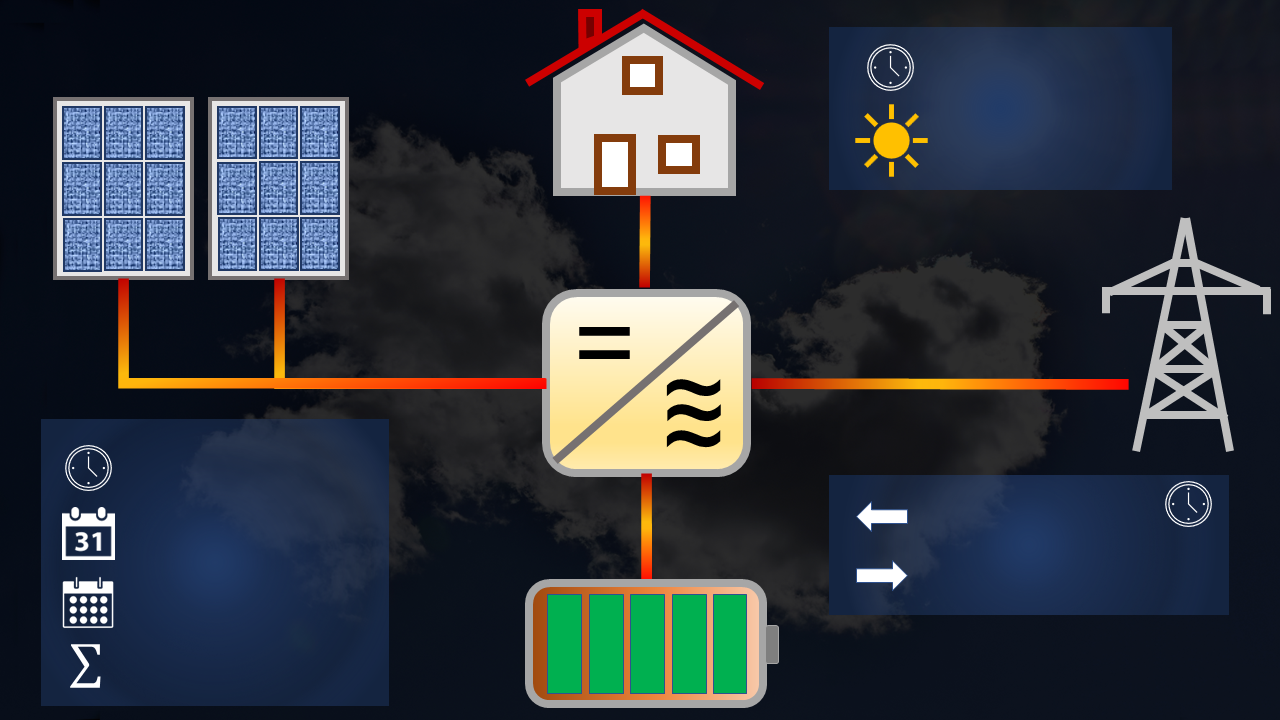
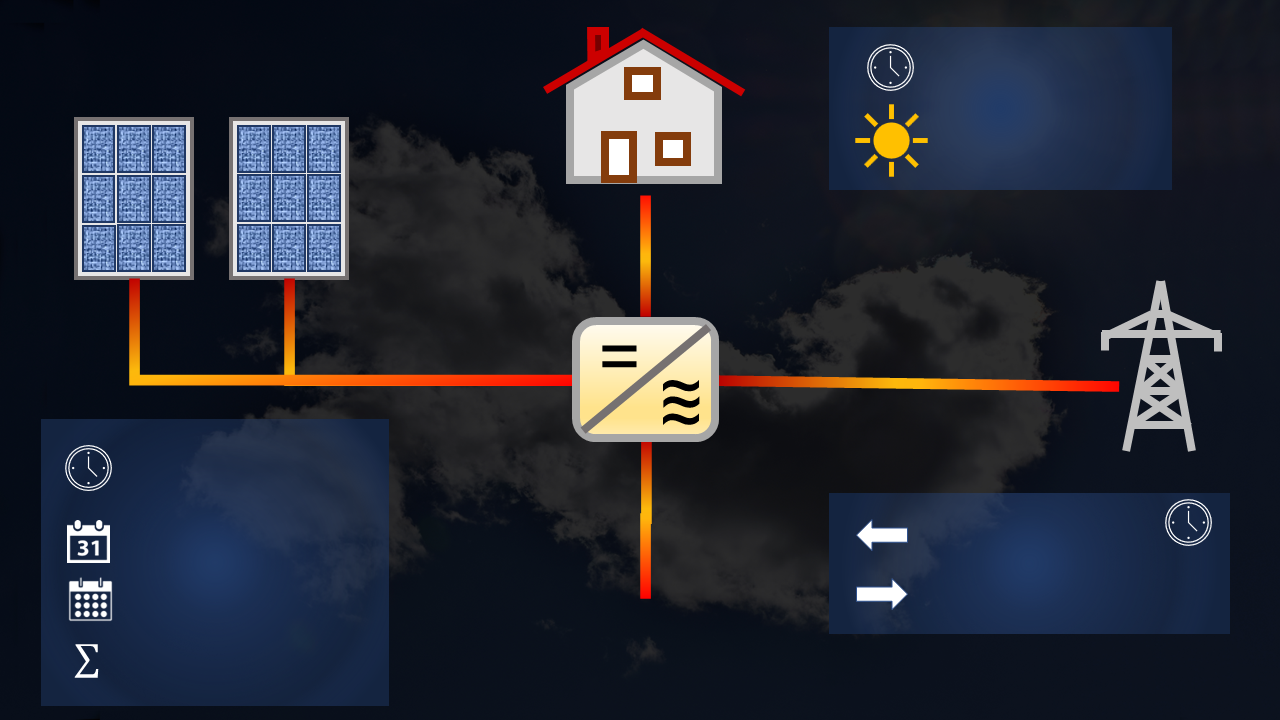
First beta with PV

diff --git a/srvroot/index.html b/srvroot/index.html
@@ -39,8 +39,8 @@
           <input type="hidden" name="topic" value="camera">
         </form>
         <form class="picontrol" action="index.html" method="get" autocomplete="off">
-          <button class="button1" type="submit" title="Show weather screen">Weather</button>
-          <input type="hidden" name="topic" value="w_show_now">
+          <button class="button1" type="submit" title="Show info screen">InfoScreen</button>
+          <input type="hidden" name="topic" value="info_show_now">
         </form>
         <form class="picontrol" action="index.html" method="get" autocomplete="off">
           <button class="button1" type="submit" title="Switch monitor manually on/off or set to auto mode">Monitor</button>

diff --git a/PVscreen.py b/PVscreen.py
@@ -20,48 +20,49 @@ def obj_create( width, height ):
   pvobj['data'] = {}
   pvobj['data']['dt'] = pi3d.TextBlock(x=x_left, y=y_top, text_format=" ", z=0.0, rot=0.0, char_count=20, size=0.99, 
                         spacing="F", space=0.0, colour=(1.0, 1.0, 1.0, 1.0))
-  pvobj['data']['total_production'] = pi3d.TextBlock(x=x_left+60, y=-20, text_format=" ", z=0.0, rot=0.0, char_count=12, size=0.99, 
+  pvobj['data']['current_PV'] = pi3d.TextBlock(x=-430, y=25, text_format=" ", z=0.0, rot=0.0, char_count=12, size=0.99, 
                         spacing="F", space=0.0, colour=(1.0, 1.0, 1.0, 1.0))
-  pvobj['data']['current_battery'] = pi3d.TextBlock(x=-200, y=-height*0.5+200, text_format=" ", z=0.0, rot=0.0, char_count=12, size=0.99, 
+  pvobj['data']['current_battery'] = pi3d.TextBlock(x=-220, y=-230, text_format=" ", z=0.0, rot=0.0, char_count=12, size=0.99, 
                         spacing="F", space=0.0, colour=(1.0, 1.0, 1.0, 1.0))
-  pvobj['data']['current_battery_soc'] = pi3d.TextBlock(x=0, y=-height*0.5+100, text_format=" ", z=0.0, rot=0.0, char_count=12, size=0.99, 
+  pvobj['data']['current_battery_SOC'] = pi3d.TextBlock(x=-60, y=-400, text_format=" ", z=0.0, rot=0.0, char_count=12, size=0.99, 
                         spacing="F", space=0.0, colour=(1.0, 1.0, 1.0, 1.0))
-  pvobj['data']['current_load'] = pi3d.TextBlock(x=200, y=300, text_format=" ", z=0.0, rot=0.0, char_count=12, size=0.99, 
+  pvobj['data']['current_load'] = pi3d.TextBlock(x=50, y=180, text_format=" ", z=0.0, rot=0.0, char_count=12, size=0.99, 
                         spacing="F", space=0.0, colour=(1.0, 1.0, 1.0, 1.0))
-  pvobj['data']['current_grid'] = pi3d.TextBlock(x=400, y=30, text_format=" ", z=0.0, rot=0.0, char_count=12, size=0.99, 
-                        spacing="F", space=0.0, colour=(1.0, 1.0, 1.0, 1.0))
-
-  pvobj['data']['day_production'] = pi3d.TextBlock(x=x_left+200, y=-100, text_format=" ", z=0.0, rot=0.0, char_count=12, size=0.99, 
-                        spacing="F", space=0.0, colour=(1.0, 1.0, 1.0, 1.0))
-  pvobj['data']['month_production'] = pi3d.TextBlock(x=x_left+200, y=-200, text_format=" ", z=0.0, rot=0.0, char_count=12, size=0.99, 
-                        spacing="F", space=0.0, colour=(1.0, 1.0, 1.0, 1.0))
-  pvobj['data']['year_production'] = pi3d.TextBlock(x=x_left+200, y=-300, text_format=" ", z=0.0, rot=0.0, char_count=12, size=0.99, 
-                        spacing="F", space=0.0, colour=(1.0, 1.0, 1.0, 1.0))
-  pvobj['data']['total_production'] = pi3d.TextBlock(x=x_left+200, y=-400, text_format=" ", z=0.0, rot=0.0, char_count=12, size=0.99, 
+  pvobj['data']['current_grid'] = pi3d.TextBlock(x=350, y=25, text_format=" ", z=0.0, rot=0.0, char_count=12, size=0.99, 
                         spacing="F", space=0.0, colour=(1.0, 1.0, 1.0, 1.0))
 
-  pvobj['data']['day_usage'] = pi3d.TextBlock(x=500, y=400, text_format=" ", z=0.0, rot=0.0, char_count=12, size=0.99, 
+  pvobj['data']['day_production'] = pi3d.TextBlock(x=x_left+200, y=-160, text_format=" ", z=0.0, rot=0.0, char_count=12, size=0.99, 
                         spacing="F", space=0.0, colour=(1.0, 1.0, 1.0, 1.0))
-  pvobj['data']['day_autarky_rate'] = pi3d.TextBlock(x=500, y=400, text_format=" ", z=0.0, rot=0.0, char_count=12, size=0.99, 
+  pvobj['data']['month_production'] = pi3d.TextBlock(x=x_left+200, y=-270, text_format=" ", z=0.0, rot=0.0, char_count=12, size=0.7, 
+                        spacing="F", space=0.0, colour=(1.0, 1.0, 1.0, 1.0))
+  pvobj['data']['year_production'] = pi3d.TextBlock(x=x_left+200, y=-360, text_format=" ", z=0.0, rot=0.0, char_count=12, size=0.7, 
+                        spacing="F", space=0.0, colour=(1.0, 1.0, 1.0, 1.0))
+  pvobj['data']['total_production'] = pi3d.TextBlock(x=x_left+200, y=-450, text_format=" ", z=0.0, rot=0.0, char_count=12, size=0.7, 
                         spacing="F", space=0.0, colour=(1.0, 1.0, 1.0, 1.0))
 
-  pvobj['data']['day_grid_load'] = pi3d.TextBlock(x=500, y=-200, text_format=" ", z=0.0, rot=0.0, char_count=12, size=0.99, 
+  pvobj['data']['day_usage'] = pi3d.TextBlock(x=450, y=440, text_format=" ", z=0.0, rot=0.0, char_count=12, size=0.99, 
                         spacing="F", space=0.0, colour=(1.0, 1.0, 1.0, 1.0))
-  pvobj['data']['day_grid_feed'] = pi3d.TextBlock(x=500, y=-300, text_format=" ", z=0.0, rot=0.0, char_count=12, size=0.99, 
+  pvobj['data']['day_autarky_rate'] = pi3d.TextBlock(x=450, y=330, text_format=" ", z=0.0, rot=0.0, char_count=12, size=0.99, 
+                        spacing="F", space=0.0, colour=(1.0, 1.0, 1.0, 1.0))
+
+  pvobj['data']['day_grid_load'] = pi3d.TextBlock(x=450, y=-260, text_format=" ", z=0.0, rot=0.0, char_count=12, size=0.7, 
+                        spacing="F", space=0.0, colour=(1.0, 1.0, 1.0, 1.0))
+  pvobj['data']['day_grid_feed'] = pi3d.TextBlock(x=450, y=-350, text_format=" ", z=0.0, rot=0.0, char_count=12, size=0.7, 
                         spacing="F", space=0.0, colour=(1.0, 1.0, 1.0, 1.0))
 
   pvobj['icon'] = {}
-  pvobj['icon']['battery_icon'] = pi3d.ImageSprite(os.path.join(cfg['PV_ICON_DIR'], 'battery_5.png'), icon_shader, w=width/7, 
-                x=0, y=-height*0.5+50, z=1.0) 
-  pvobj['icon']['grid_interrupt_icon'] = pi3d.ImageSprite(os.path.join(cfg['PV_ICON_DIR'], 'grid_interrupt.png'), icon_shader, w=width/10, 
+  pvobj['icon']['battery_icon'] = pi3d.ImageSprite(os.path.join(cfg['PV_ICON_DIR'], 'battery_1.png'), icon_shader, w=280, h=140, 
+                x=5, y=-400, z=1.0) 
+  pvobj['icon']['grid_interrupt_icon'] = pi3d.ImageSprite(os.path.join(cfg['PV_ICON_DIR'], 'grid_interrupt.png'), icon_shader, w=100, h=100, 
                 x=300, y=0, z=1.0)
   return pvobj
 
 #---------------------------------------------
 def set_battery_soc(pvdata, pvobj):
+  icon = ""
   try:
-    soc = int(pvdata['current_battery_soc']['value'])
-    if soc < 20:
+    soc = float(pvdata['current_battery_SOC']['value'])
+    if soc <= 20:
       icon = "battery_1.png"
     elif soc < 40:
       icon = "battery_2.png"
@@ -71,8 +72,10 @@ def set_battery_soc(pvdata, pvobj):
       icon = "battery_4.png"
     else:
       icon = "battery_5.png"
-  except:
-      icon = "battery_5.png"
+  except Exception as e:
+    logging.error("Couldn't set battery icon. error: {}".format(str(e)))
+    icon = "battery_5.png"
+
   tex = pi3d.Texture(os.path.join(cfg['PV_ICON_DIR'], icon), blend=True, automatic_resize=True, free_after_load=True)
   pvobj['icon']['battery_icon'].set_textures( [tex] )
 
@@ -92,27 +95,36 @@ def set_data_colours(pvdata, pvobj):
   c_green = (0.0, 0.7, 0.0, 1.0)
   c_yellow = (1.0, 0.6, 0.1, 1.0)
   c_red = (1.0, 0.0, 0.0, 1.0)
+  c_white = (1.0, 1.0, 1.0, 1.0)
 
-  # set text colours
-  if pvdata['current_battery']["value"] > 0:
-    pvobj['data']['current_battery'].colouring.set_colour(c_yellow)
-  else:
-    pvobj['data']['current_battery'].colouring.set_colour(c_green)
+  try:
+    # set text colours
+    if float(pvdata['current_battery']["value"]) < 0:
+      pvobj['data']['current_battery'].colouring.set_colour(c_green)
+    elif float(pvdata['current_battery']["value"]) > 0:
+      pvobj['data']['current_battery'].colouring.set_colour(c_yellow)
+    else:
+      pvobj['data']['current_battery'].colouring.set_colour(c_white)
 
-  if pvdata['current_grid']["value"] > 0:
-    pvobj['data']['current_grid'].colouring.set_colour(c_yellow)
-  else:
-    pvobj['data']['current_grid'].colouring.set_colour(c_green)
+    if float(pvdata['current_grid']["value"]) < 0:
+      pvobj['data']['current_grid'].colouring.set_colour(c_green)
+    elif float(pvdata['current_grid']["value"]) >= 100:  
+      pvobj['data']['current_grid'].colouring.set_colour(c_yellow)
+    else:
+      pvobj['data']['current_grid'].colouring.set_colour(c_white)
 
-  if pvdata['day_autarky_rate']["value"] > 80:
-    pvobj['data']['day_autarky_rate'].colouring.set_colour(c_green)
-  elif pvdata['day_autarky_rate']["value"] > 50:
-    pvobj['data']['day_autarky_rate'].colouring.set_colour(c_yellow)
-  else:
-    pvobj['data']['day_autarky_rate'].colouring.set_colour(c_red)
+    if float(pvdata['day_autarky_rate']["value"]) >= 80:
+      pvobj['data']['day_autarky_rate'].colouring.set_colour(c_green)
+    elif float(pvdata['day_autarky_rate']["value"]) >= 50:
+      pvobj['data']['day_autarky_rate'].colouring.set_colour(c_yellow)
+    else:
+      pvobj['data']['day_autarky_rate'].colouring.set_colour(c_red)
+  except Exception as e:
+    logging.error("Couldn't set PV text colors. error: {}".format(str(e)))
 
 #---------------------------------------------
 def refresh(pvobj):
+  logging.info("Refreshing PV info")
   pvdata = PVinverter.get_PV_device_data()
   try:
     for param, data in pvdata.items():

diff --git a/PVinverter.py b/PVinverter.py
@@ -8,7 +8,20 @@ from config import cfg
 import logging
 import time
 from MTEC_energybutler_API import MTECapi
- 
+
+#---------------------------------------------
+def format_data( data ):
+    value = float(data.get("value", 0))
+    unit = data.get("unit", "")
+
+    # do some formatting for nicer output
+    if unit == "kW" and value < 1: # Convert to W  
+        value = int(value*1000)
+        unit = "W"    
+    elif unit == "W": # Don't show decimal places for W
+        value = int(value)   
+    return { "value": value, "unit": unit }
+    
 #---------------------------------------------
 def get_PV_device_data():
     pvdata = {}
@@ -30,15 +43,19 @@ def get_PV_device_data():
 
     api = MTECapi.MTECapi()
     data = api.query_station_data(station_id)
-    pvdata["day_production"] = data["todayEnergy"]      # Energy produced by the PV today
-    pvdata["month_production"] = data["monthEnergy"]    # Energy produced by the PV this month
-    pvdata["year_production"] = data["yearEnergy"]      # Energy produced by the PV this year
-    pvdata["total_production"] = data["totalEnergy"]    # Energy produced by the PV in total
-    pvdata["current_PV"] = data["PV"]                   # Current PV production
-    pvdata["current_grid"] = data["grid"]               # Current flow from/to grid
-    pvdata["current_battery"] = data["battery"]         # Current flow from/to battery    
-    pvdata["current_battery_SOC"] = { "value": data["battery"]["SOC"], "unit": "%" }  # Current battery SOC
-    pvdata["current_load"] = data["load"]               # Current consumed energy
+    pvdata["day_production"] = data["todayEnergy"]              # Energy produced by the PV today
+    pvdata["month_production"] = data["monthEnergy"]            # Energy produced by the PV this month
+    pvdata["year_production"] = data["yearEnergy"]              # Energy produced by the PV this year
+    pvdata["total_production"] = data["totalEnergy"]            # Energy produced by the PV in total
+    pvdata["current_PV"] = format_data(data["PV"])              # Current flow from PV
+    pvdata["current_grid"] = format_data( data["grid"] )        # Current flow from/to grid
+    if data["grid"]["direction"] == 2: 
+        pvdata["current_grid"]["value"] = - pvdata["current_grid"]["value"]  # show "feed in" as negative value 
+    pvdata["current_battery"] = format_data( data["battery"] )  # Current flow from/to battery
+    if data["battery"]["direction"] == 2: 
+        pvdata["current_battery"]["value"] = - pvdata["current_battery"]["value"]  # show "feed in" as negative value 
+    pvdata["current_battery_SOC"] = { "value": data["battery"]["SOC"], "unit": "%" }   # Current battery SOC
+    pvdata["current_load"] = format_data( data["load"])          # Current consumed energy
     pvdata["grid_interrupt"] = { "value": data["lackMaster"], "unit": "" }  # Grid interrup flag
 
     data = api.query_grid_connected_data(station_id)
@@ -46,10 +63,13 @@ def get_PV_device_data():
     pvdata["day_grid_feed"] = data["eMeterTotalSell"]   # Today's energy fed into grid
     pvdata["day_usage"] = data["eUse"]                  # Today's total energy consumption
     pvdata["day_usage_self"] = data["eUseSelf"]         # Today's energy consumption originating from own PV or battery (i.e. not grid)
+    pvdata["day_total"] = data["eDayTotal"]             # Today's total energy production (PV + battery discharge)
 
     # calculate autarky rate
     autarky_rate = 100 * pvdata["day_usage_self"]["value"] / pvdata["day_usage"]["value"] if pvdata["day_usage"]["value"]>0 else 0
     pvdata["day_autarky_rate"] = { "value": "{:.1f}".format(autarky_rate), "unit": "%" }    # Today's independance rate from grid power
+    self_usage_rate = 100 * pvdata["day_usage_self"]["value"] / pvdata["day_total"]["value"] if pvdata["day_total"]["value"]>0 else 0
+    pvdata["day_self_usage_rate"] = { "value": "{:.1f}".format(self_usage_rate), "unit": "%" }    # Ratio of self used energy (vs. fed into grid)
 
     return pvdata
 

diff --git a/infotainment.py b/infotainment.py
@@ -350,17 +350,17 @@ def start_picframe():
 
       if info_interstitial != 'OFF':
         if info_index == 0:
-          weatherinfo.regen()
-          weatherinfo.draw()
           for item in weatherobj['forecast']:
             item['icon'].draw()
           for _, obj in weatherobj['static'].items():  
             obj.draw()
+          weatherinfo.regen()
+          weatherinfo.draw()
         else:
-          PVinfo.regen()
-          PVinfo.draw()
           for _, obj in PVobj['icon'].items():
             obj.draw()
+          PVinfo.regen()
+          PVinfo.draw()
 
     else: # monitor OFF -> minimize system activity to reduce power consumption
       time.sleep(10)

diff --git a/config.py b/config.py
@@ -56,4 +56,6 @@ cfg['SHADER'] =         os.path.join(BASE_DIR, "shaders", cfg['SHADER'])
 cfg['FONT_FILE'] =      os.path.join(BASE_DIR, "fonts", cfg['FONT_FILE'])
 cfg['W_ICON_DIR'] =     os.path.join(BASE_DIR, "images", cfg['W_ICON_DIR']) 
 cfg['W_BACK_IMG'] =     os.path.join(BASE_DIR, "images", cfg['W_BACK_IMG'])   
+cfg['PV_ICON_DIR'] =    os.path.join(BASE_DIR, "images", cfg['PV_ICON_DIR']) 
+cfg['PV_BACK_IMG'] =    os.path.join(BASE_DIR, "images", cfg['PV_BACK_IMG'])
 cfg['SRV_ROOT'] =       os.path.join(BASE_DIR, cfg['SRV_ROOT'])

diff --git a/README.md b/README.md
@@ -9,7 +9,7 @@ This is a hobby project for Raspberry Pi which combines following core functiona
 - Surveillance camera viewer: Show live picture of a surveillance camera when it detects motion  
 - Simple webserver: Enables you to remotely control the Infotainment System
 - Enable to integrate into almost any home automation system which supports HTTP hooks 
-- Reads and displays data from a photovoltaic device from RCT Power 
+- Reads and displays data from a photovoltaic inverter (M-TEC)  
 
 The Picture Frame functionality of RaspiInfotainment uses the pi3d (https://pi3d.github.io/) project and is heavily based on PictureFrame2020.py from https://github.com/pi3d/pi3d_demos. Kudos to these awsome projects!
 
